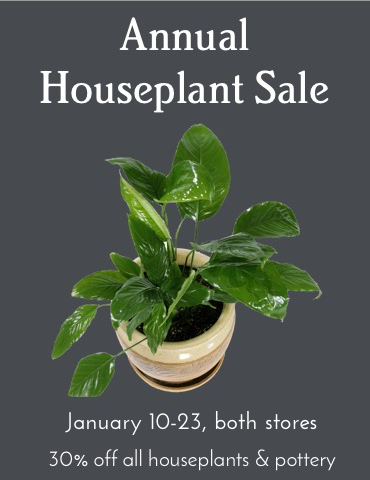
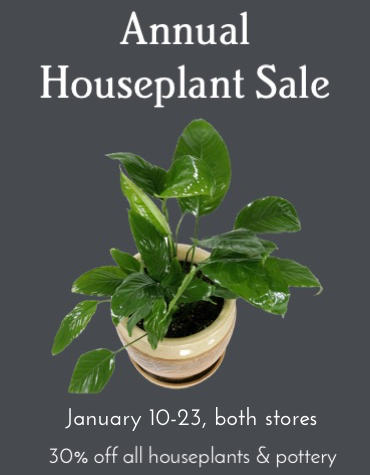
hours

diff --git a/partials/homepage/socialblock.htm b/partials/homepage/socialblock.htm
@@ -5,7 +5,7 @@
                 <div class="col-md-4 col-sm-6 wow fadeInDown">
                     <div class="specials text-left">
 <!--                         <h2 class="brightonL center">Specials</h2> -->
-                    <a href="https://portlandnursery.com/container-gardens/december-designs/"><img class="img-responsive" src="{{ 'assets/images/marketing/decembercontainer.png'|theme }}" alt="container" /></a>
+                    <a href="https://portlandnursery.com/houseplants/"><img class="img-responsive" src="{{ 'assets/images/marketing/houseplantsale2019a.png'|theme }}" alt="container" /></a>
 
                     </div>
 

diff --git a/partials/resources/hours.htm b/partials/resources/hours.htm
@@ -1,5 +1,5 @@
 [viewBag]
 ==
 Daily:  9am to 6pm<br />
-Dec. 24 - Closing at 4pm<br />
-Dec. 25, 26 - Closed
+Dec. 31 - Closing at 4pm<br />
+Jan. 1 - Closed
